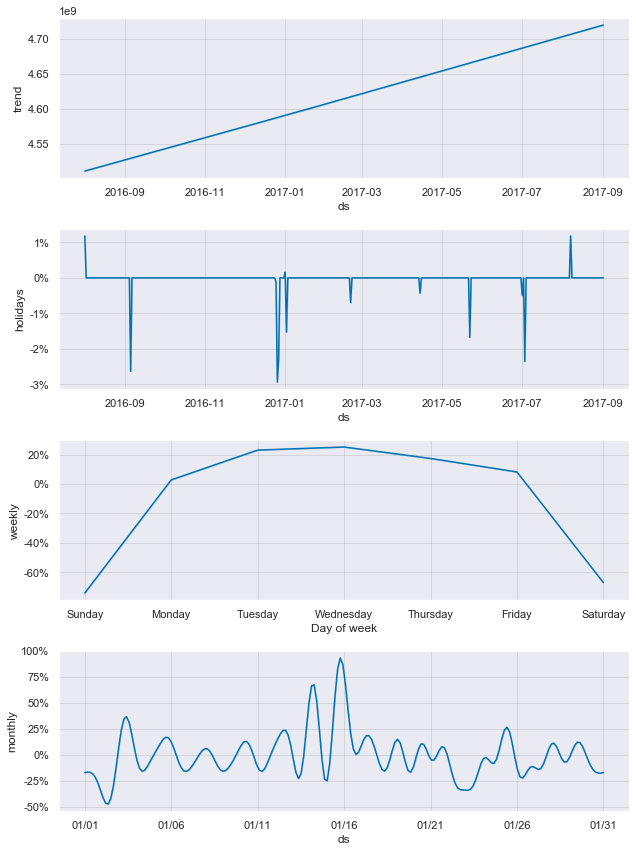
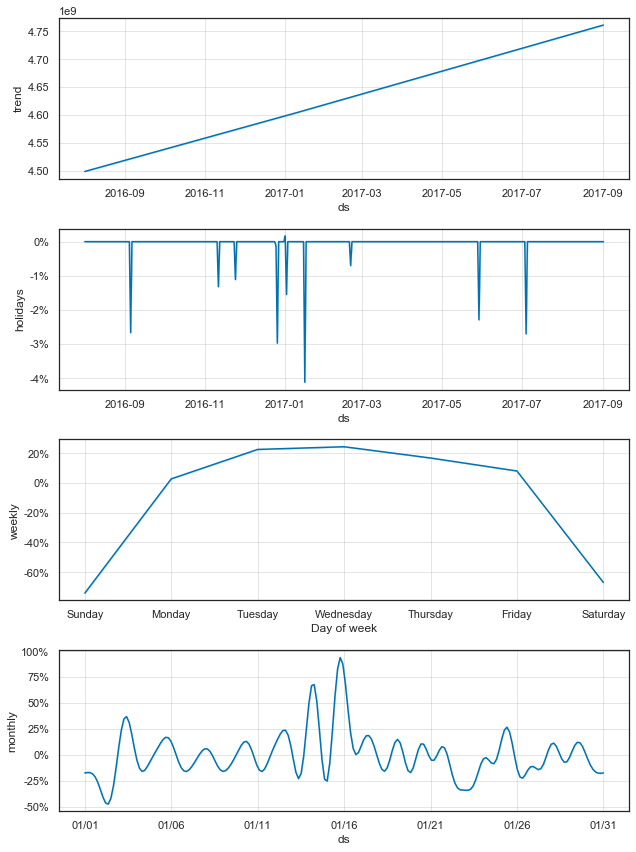
update with new images and new copy

diff --git a/main_app/templates/timepredict.html b/main_app/templates/timepredict.html
@@ -101,13 +101,27 @@
             <div class="col-xl-12 d-flex grid-margin stretch-card">
                 <div class="card">
                   <div class="card-body">
-                      <h4 class="card-title">Time Series Prediction</h4>
+                      <h4 class="card-title">Time Series Summary</h4>
                       <div class="row mt-3">
                         <div class="col-lg-12">
-                          <p>Insert something about analysis and graphs here.</p>
+                          <p>The transaction data was broken into different time series which is represented below. </p>
                               <div class="card-img-holder mt-4">
                                 <img class="img-fluid" src="../static/images/transaction_trends.png">
                               </div> 
+                              <h4 class="card-title">Time Series Forecast</h4>
+                      <div class="row mt-3">
+                        <div class="col-lg-12">
+                          <p>We used Facebook Prophet to predict the revenue amount for the next 30 days (for the month of August, 2017). </p>
+                              <div class="card-img-holder mt-4">
+                                <img class="img-fluid" src="../static/images/prediction1.png">
+                              </div>
+                              <h4 class="card-title">Time Series Forecast Component</h4>
+                      <div class="row mt-3">
+                        <div class="col-lg-12">
+                          <p>Facebook Prophect also gives different forecast components which are displayed below such as monthly, weekly, holidays (US) and overall trend.  </p>
+                              <div class="card-img-holder mt-4">
+                                <img class="img-fluid" src="../static/images/forecast1.png">
+                              </div>
                             </div>
                         </div>
                         </div>

diff --git a/main_app/templates/revpredict.html b/main_app/templates/revpredict.html
@@ -99,16 +99,16 @@
             <div class="col-xl-12 d-flex grid-margin stretch-card">
                 <div class="card">
                   <div class="card-body">
-                      <h4 class="card-title">User Revenue Prediction</h4>
+                      <h4 class="card-title">Feature Importance</h4>
                       <div class="row mt-3">
                         <div class="col-lg-12">
-                          <p>Insert something about analysis and graphs here.</p>
+                          <p>This visual was produced using LightGBM (machine learning model) and the data was pre-processed (cleaning up, transforming) and standardized. We applied exploratory data analysis (EDA) techniques to extract user insights. 
+                            The results below show user website information in order of importance as they relate to customer lifetime value. Once this information was parsed, the data was sent to the model in order to predict a customer lifetime value view.
+                            The model gives the root mean square error of 1.7132878091459502.</p>
+                              
+              
                               <div class="card-img-holder mt-4">
-                                <img class="img-fluid" src="../static/images/prediction1.png">
-                              </div>
-                              <p>Insert something about graphs below here.</p>
-                              <div class="card-img-holder mt-4">
-                                <img class="img-fluid" src="../static/images/forecast1.png">
+                                <img class="img-fluid" src="../static/images/documentation3.png">
                               </div>
                             </div>
                         </div>

diff --git a/main_app/static/docs/documentation.html b/main_app/static/docs/documentation.html
@@ -90,7 +90,6 @@ WOW THIS IS COOL</pre>
                             <div class="card-img-holder mt-4">
                               <img class="img-fluid" src="../images/documentation1.png">
                               <img class="img-fluid" src="../images/documentation2.png">
-                              <img class="img-fluid" src="../images/documentation3.png">
                             </div> 
                         </div>
                     </div>
